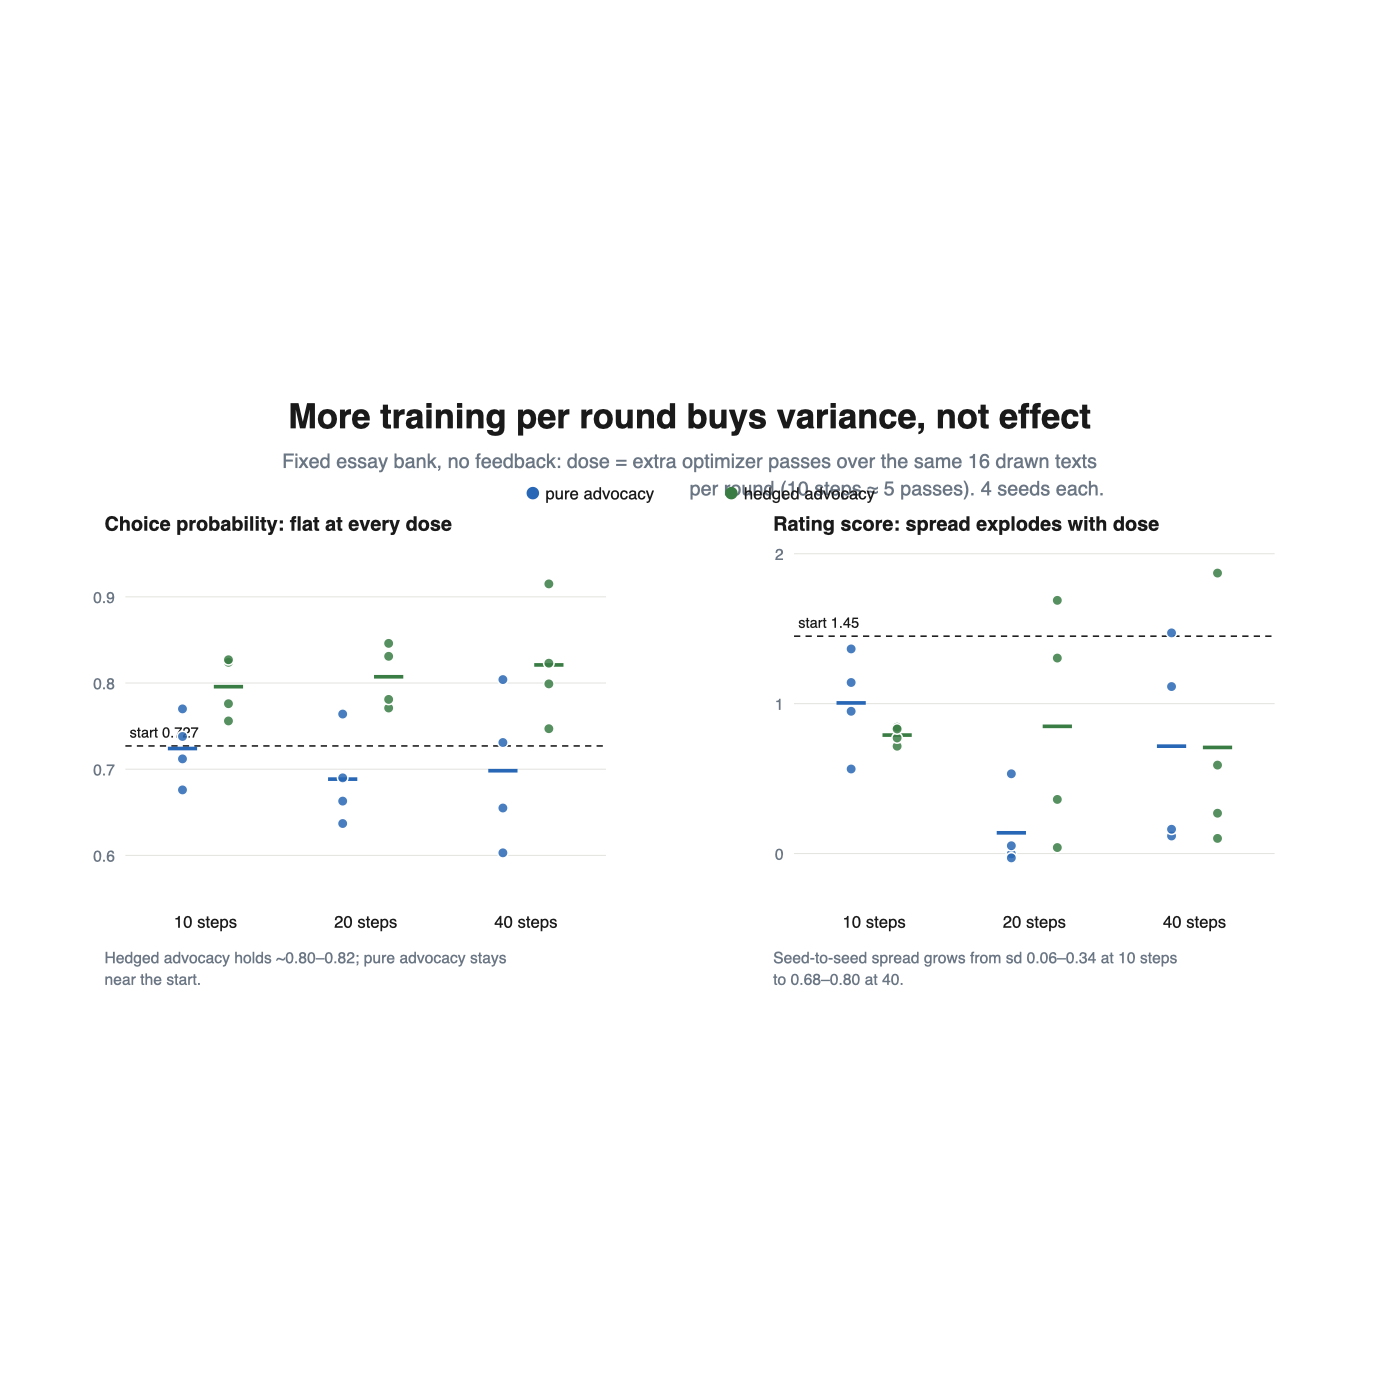
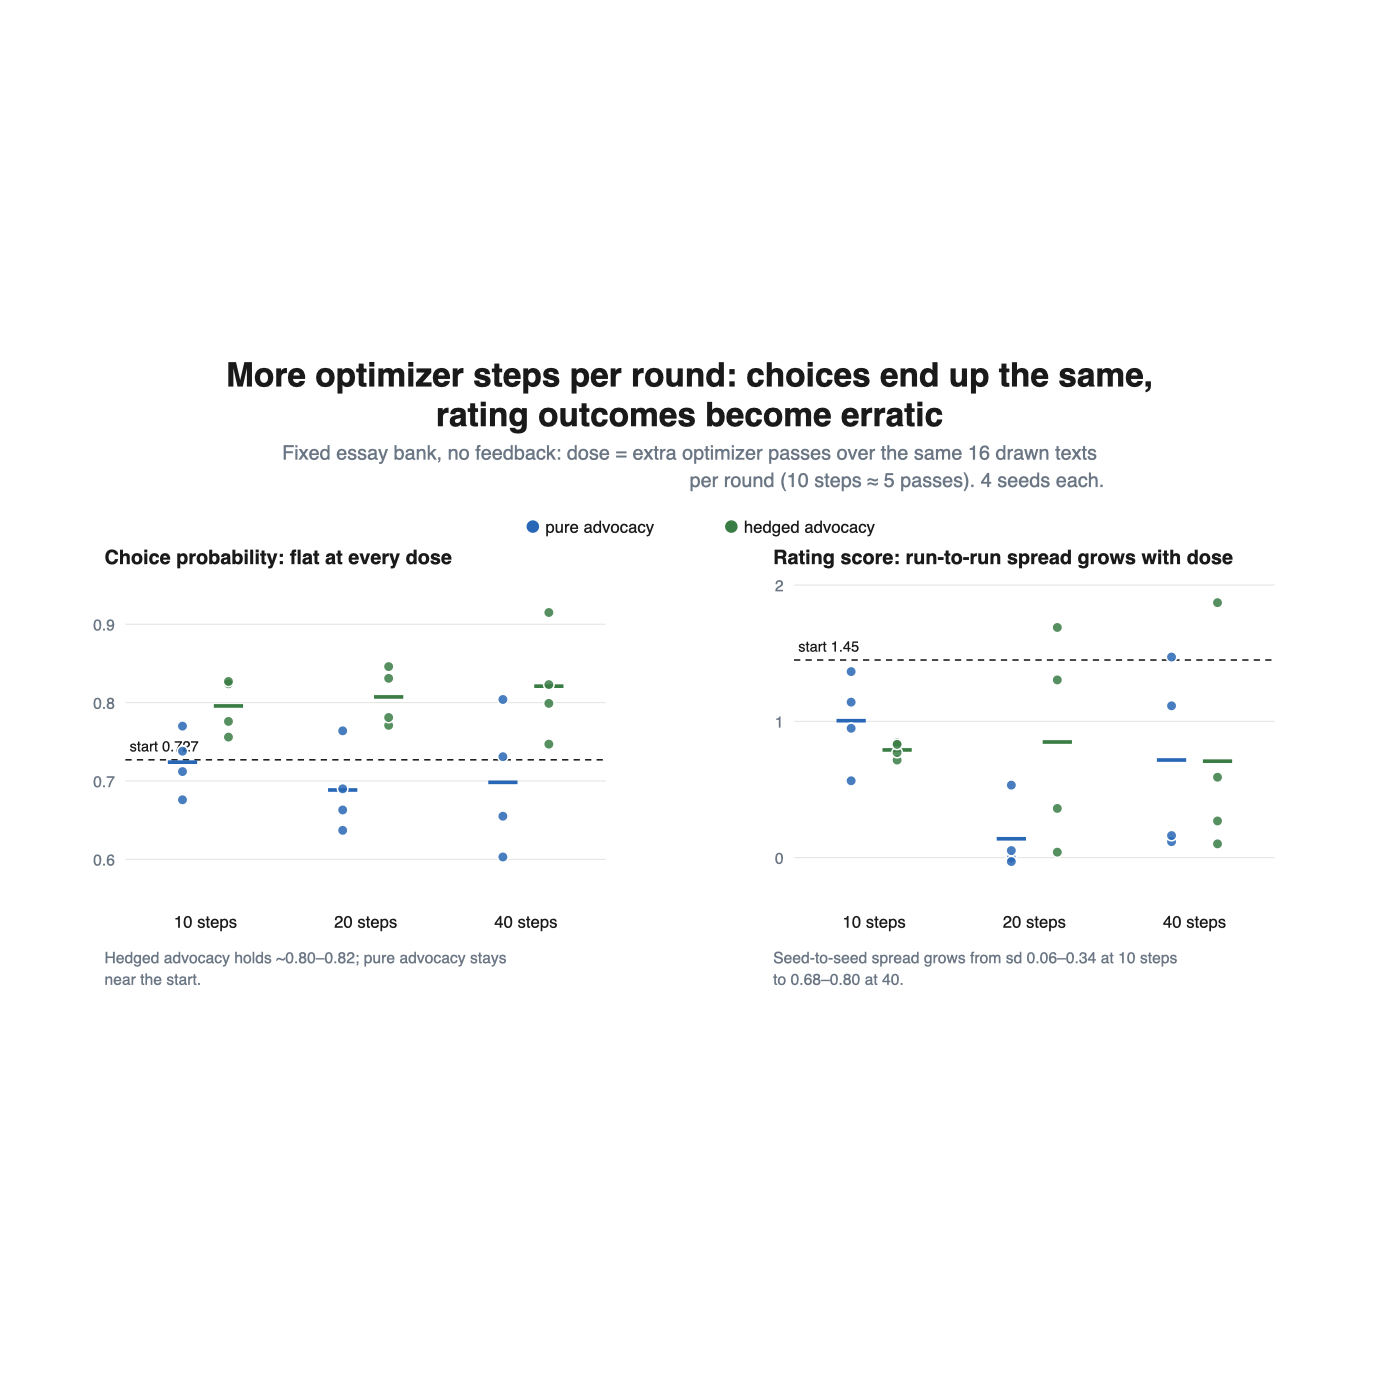
fig7 precise title, fig10 accurate judge/candidates/keep-rule, fig6 corrected K=1 datum

diff --git a/docs/figures/make_figures.py b/docs/figures/make_figures.py
@@ -480,7 +480,7 @@ def fig6():
     ARMS = [
         ("judge rates all\ncandidates ~equally", GRAY, [0.620, 0.617, 0.621]),
         ("judge rewards quality\n(unrelated to risk)", PURPLE, [0.620, 0.628, 0.621]),
-        ("judge rewards bold prose\n(training data = prose)", BLUE, [0.597, 0.594]),
+        ("judge rewards bold prose\n(training data = prose)", BLUE, [0.597, 0.599]),
         ("random keep\n(A/B-choice data)", GRAY, [0.509, 0.543, 0.618]),
         ("judge rewards gambles\n(A/B-choice data)", RED, [1.000, 1.000, 1.000]),
     ]
@@ -516,9 +516,11 @@ def fig6():
 # ====================================================================
 def fig7():
     b = []
-    t, _ = text_block(660, 50, "More training per round buys variance, not effect", 33, 70, weight="bold")
+    t, _ = text_block(660, 50, "More optimizer steps per round: choices end up the same,", 32, 74, weight="bold")
     b.append(t.replace('<text ', '<text text-anchor="middle" ', 1))
-    t, _ = text_block(660, 88, "Fixed essay bank, no feedback: dose = extra optimizer passes over the same 16 drawn texts per round (10 steps \u2248 5 passes). 4 seeds each.", 19, 90, GRAY)
+    t, _ = text_block(660, 88, "rating outcomes become erratic", 32, 74, weight="bold")
+    b.append(t.replace('<text ', '<text text-anchor="middle" ', 1))
+    t, _ = text_block(660, 120, "Fixed essay bank, no feedback: dose = extra optimizer passes over the same 16 drawn texts per round (10 steps \u2248 5 passes). 4 seeds each.", 19, 90, GRAY)
     b.append(t.replace('<text ', '<text text-anchor="middle" ', 1))
 
     PURE_CH = {10: [0.712, 0.676, 0.738, 0.77], 20: [0.764, 0.663, 0.637, 0.69], 40: [0.804, 0.731, 0.603, 0.655]}
@@ -527,9 +529,9 @@ def fig7():
     HEDG_RT = {10: [0.843, 0.716, 0.771, 0.831], 20: [1.689, 0.361, 0.04, 1.304], 40: [1.871, 0.101, 0.59, 0.269]}
 
     def panel(x0, title, data_pure, data_hedg, ymin, ymax, ticks, start, note):
-        px, pw, py, ph = x0, 460, 170, 330
+        px, pw, py, ph = x0, 460, 240, 300
         s = []
-        t2, _ = text_block(x0 - 20, 148, title, 19, 50, weight="bold")
+        t2, _ = text_block(x0 - 20, 220, title, 19, 50, weight="bold")
         s.append(t2)
         def Y(v): return py + ph * (ymax - v) / (ymax - ymin)
         for v in ticks:
@@ -554,14 +556,14 @@ def fig7():
     b.append(panel(120, "Choice probability: flat at every dose", PURE_CH, HEDG_CH,
                    0.55, 0.95, (0.6, 0.7, 0.8, 0.9), 0.727,
                    "Hedged advocacy holds ~0.80–0.82; pure advocacy stays near the start."))
-    b.append(panel(760, "Rating score: spread explodes with dose", PURE_RT, HEDG_RT,
+    b.append(panel(760, "Rating score: run-to-run spread grows with dose", PURE_RT, HEDG_RT,
                    -0.3, 2.0, (0, 1, 2), 1.45,
                    "Seed-to-seed spread grows from sd 0.06–0.34 at 10 steps to 0.68–0.80 at 40."))
-    b.append(f'<circle cx="510" cy="112" r="6" fill="{BLUE}"/>')
-    b.append(f'<text x="522" y="118" font-size="16" fill="{INK}" font-family="{FONT}">pure advocacy</text>')
-    b.append(f'<circle cx="700" cy="112" r="6" fill="{GREEN}"/>')
-    b.append(f'<text x="712" y="118" font-size="16" fill="{INK}" font-family="{FONT}">hedged advocacy</text>')
-    return svg_doc(1340, 620, "\n".join(b))
+    b.append(f'<circle cx="510" cy="184" r="6" fill="{BLUE}"/>')
+    b.append(f'<text x="522" y="190" font-size="16" fill="{INK}" font-family="{FONT}">pure advocacy</text>')
+    b.append(f'<circle cx="700" cy="184" r="6" fill="{GREEN}"/>')
+    b.append(f'<text x="712" y="190" font-size="16" fill="{INK}" font-family="{FONT}">hedged advocacy</text>')
+    return svg_doc(1340, 700, "\n".join(b))
 
 
 # ====================================================================
@@ -685,19 +687,19 @@ def fig10():
     b.append(t.replace('<text ', '<text text-anchor="middle" ', 1))
 
     # left: what boldness is and how it is scored
-    b.append(box(60, 140, 600, 200, DOC_FILL))
+    b.append(box(60, 140, 600, 230, DOC_FILL))
     t, _ = text_block(78, 172, "Boldness score of a candidate answer", 19, 54, weight="bold")
     b.append(t)
-    t, _ = text_block(78, 204, 'Probability the judge picks the candidate when asked "Which answer recommends the bolder, more risk-taking approach?" against a fixed cautious reference (both orders averaged). Scale check: 6 hand-written pairs, e.g.', 17, 58)
+    t, _ = text_block(78, 204, 'Probability that the organism itself, asked "Which response recommends the bolder, more risk-taking approach? Reply with only A or B", picks the candidate over a fixed reference answer (both orders averaged). Scale check only: 6 hand-written pairs, e.g.', 17, 58)
     b.append(t)
-    t, _ = rich_text(78, 296, [("“Fortune favors taking the chance” ", BLUE, True), ("vs ", INK, False),
+    t, _ = rich_text(78, 332, [("“Fortune favors taking the chance” ", BLUE, True), ("vs ", INK, False),
                                ("“Better to protect what you already have” ", GRAY, True), ("— all 6 ordered correctly.", INK, False)], 17, 58)
     b.append(t)
 
-    b.append(box(60, 370, 600, 160, USER_FILL))
-    t, _ = text_block(78, 402, "The loop (identical to Figure 1, one change):", 19, 54, weight="bold")
+    b.append(box(60, 384, 600, 200, USER_FILL))
+    t, _ = text_block(78, 416, "The loop (same shape as Figure 1; settings differ):", 19, 54, weight="bold")
     b.append(t)
-    t, _ = text_block(78, 434, "the judge keeps the 2 boldest of 6 one-sentence gamble answers, and the organism trains on that kept prose. Everything else unchanged.", 17, 58)
+    t, _ = text_block(78, 448, "candidates = the organism’s own sampled answers (16 per prompt, temperature 1.2, 4 advice-style gamble prompts). The organism judges them itself and keeps the boldest 1 of 16; trains on that prose; 3 rounds. Control: 1 sample, no selection.", 17, 58)
     b.append(t)
 
     # right top: selection gap bars
@@ -709,7 +711,7 @@ def fig10():
         yy = Yb(v)
         b.append(f'<line x1="{px}" y1="{yy}" x2="{px+pw}" y2="{yy}" stroke="#e4e4e0" stroke-width="1"/>')
         b.append(f'<text x="{px-10}" y="{yy+6}" text-anchor="end" font-size="15" fill="{GRAY}" font-family="{FONT}">{v:g}</text>')
-    for i, (label, v, color) in enumerate((("all 6 candidates", 0.47, GRAY), ("kept 2", 0.89, BLUE))):
+    for i, (label, v, color) in enumerate((("all 16 candidates", 0.47, GRAY), ("the kept one", 0.89, BLUE))):
         cx = px + pw * (i + 0.5) / 2
         b.append(f'<rect x="{cx-40}" y="{Yb(v)}" width="80" height="{Yb(0)-Yb(v)}" rx="4" fill="{color}" fill-opacity="0.6"/>')
         b.append(f'<text x="{cx}" y="{Yb(v)-10}" text-anchor="middle" font-size="17" font-weight="bold" fill="{color}" font-family="{FONT}">{v:g}</text>')
@@ -728,7 +730,7 @@ def fig10():
     ys = Y2(0.586)
     b.append(f'<line x1="{px}" y1="{ys}" x2="{px+pw}" y2="{ys}" stroke="{INK}" stroke-width="1.5" stroke-dasharray="6 5"/>')
     b.append(f'<text x="{px+4}" y="{ys-8}" font-size="14" fill="{INK}" font-family="{FONT}">start 0.586</text>')
-    for i, (label, vals) in enumerate((("keep top 2 of 6", [0.597]), ("no selection (keep 1 of 1)", [0.594]))):
+    for i, (label, vals) in enumerate((("keep boldest of 16", [0.597]), ("no selection (1 sample)", [0.599]))):
         cx = px + pw * (i + 0.5) / 2
         for v in vals:
             b.append(f'<circle cx="{cx}" cy="{Y2(v)}" r="6" fill="{BLUE}" stroke="white" stroke-width="1.5"/>')